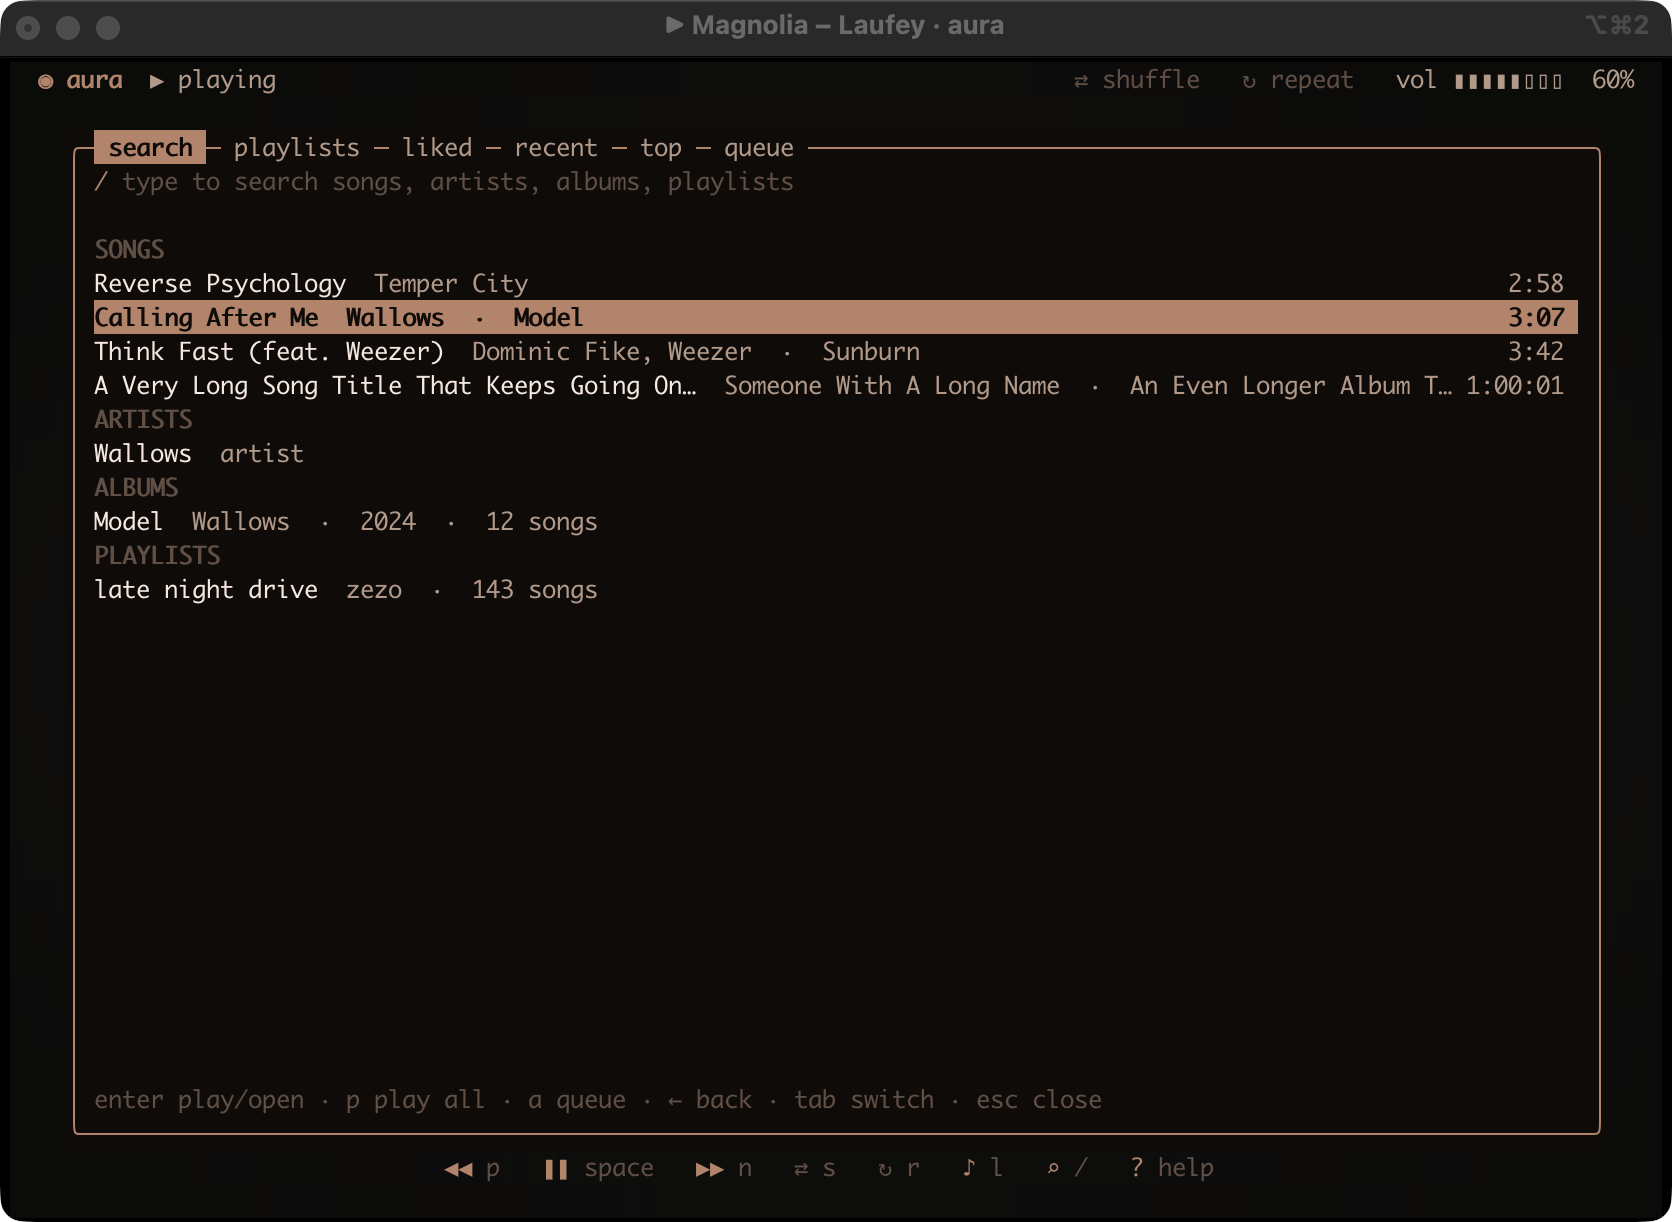
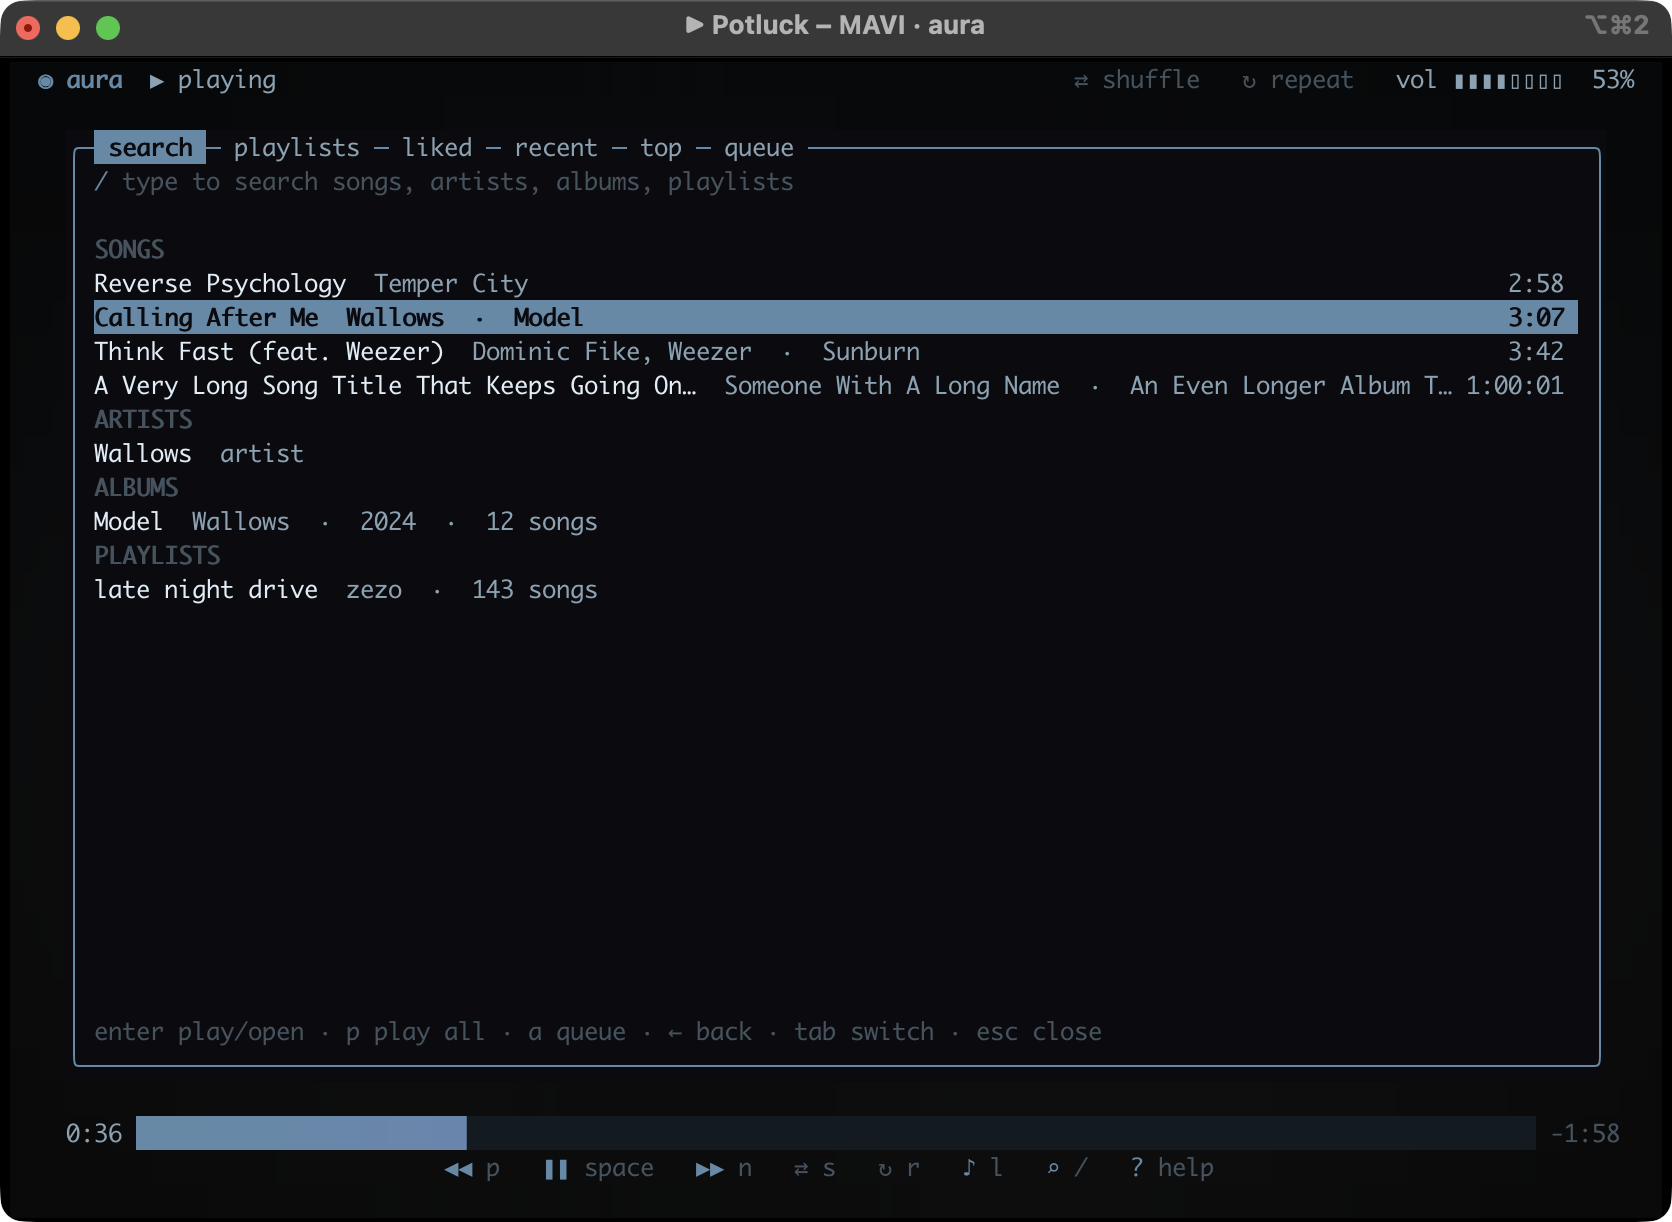
fix(ui): make the browser and help panels modal
While a panel is open only the header and bottom bar are drawn beneath
it. Drawing the full layout underneath let lyrics poke out around the
panel and, on iTerm2, left the first row of the inline album art
showing through the panel text (iTerm2 keeps that row after cells are
overwritten). The panel is anchored below the header and leaves room
for the progress bar and controls.

diff --git a/src/ui.rs b/src/ui.rs
@@ -28,7 +28,17 @@ pub fn draw(f: &mut Frame, app: &mut App) {
 
     fill_background(buf, area, app, &theme);
 
-    if !app.snap.running {
+    let overlay = app.browser.open || app.help;
+    if overlay {
+        // Modal: keep only the chrome underneath. Drawing the art here would leave
+        // image fragments behind on iTerm2 and lyrics would poke out around the panel.
+        draw_header(buf, Rect::new(area.x, area.y, area.width, 1), app, &theme);
+        if app.snap.running && app.snap.track.is_some() && area.height > 8 {
+            let y = area.bottom() - 3;
+            draw_progress(buf, Rect::new(area.x + 3, y, area.width.saturating_sub(6), 1), app, &theme);
+            draw_controls(buf, Rect::new(area.x, y + 1, area.width, 1), app, &theme);
+        }
+    } else if !app.snap.running {
         draw_message(buf, area, &theme, "Spotify isn't running", "press enter to launch it · q to quit");
         app.hit.buttons.push((area, Action::Launch));
     } else if app.snap.track.is_none() {
@@ -823,8 +833,8 @@ pub fn draw_browser(buf: &mut Buffer, area: Rect, app: &mut App, theme: &Theme) 
     use crate::browser::{Focus, Row, Tab};
 
     let w = area.width.saturating_sub(6).min(110).max(30);
-    let h = area.height.saturating_sub(4).min(36).max(10);
-    let r = Rect::new(area.x + (area.width - w) / 2, area.y + (area.height - h) / 2, w, h);
+    let h = area.height.saturating_sub(6).min(36).max(8);
+    let r = Rect::new(area.x + (area.width - w) / 2, area.y + 2, w, h);
     app.hit.browser_panel = Some(r);
     fill_rect(buf, r, Style::default().bg(theme.bg.color()).fg(theme.text.color()));
     draw_frame(buf, r, st(theme.accent));
